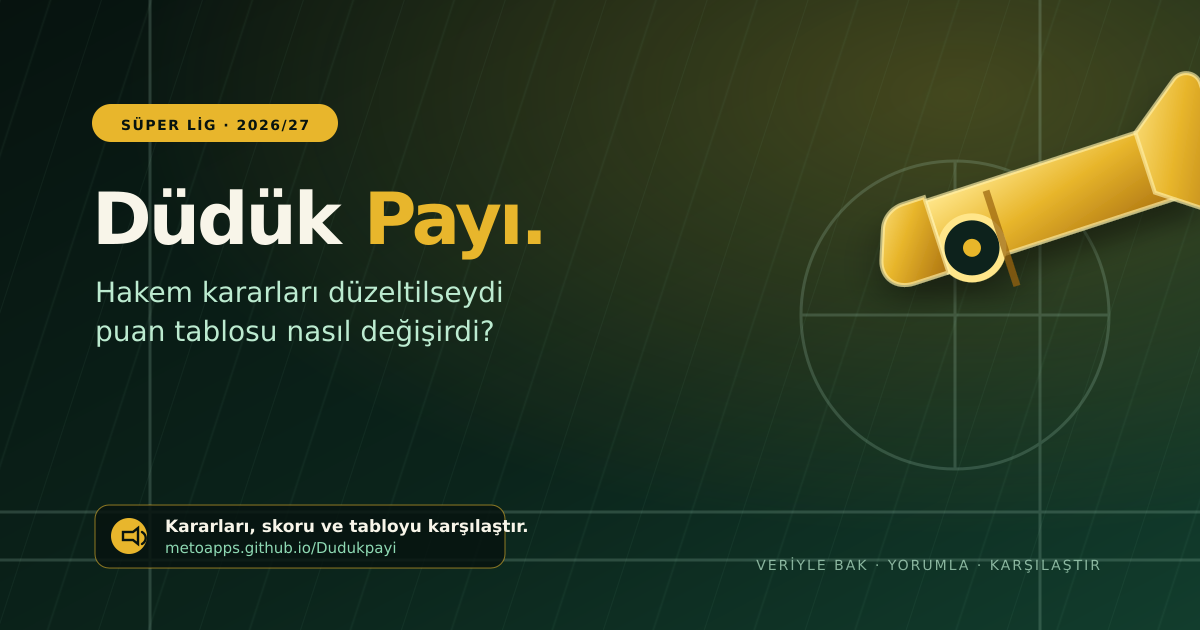
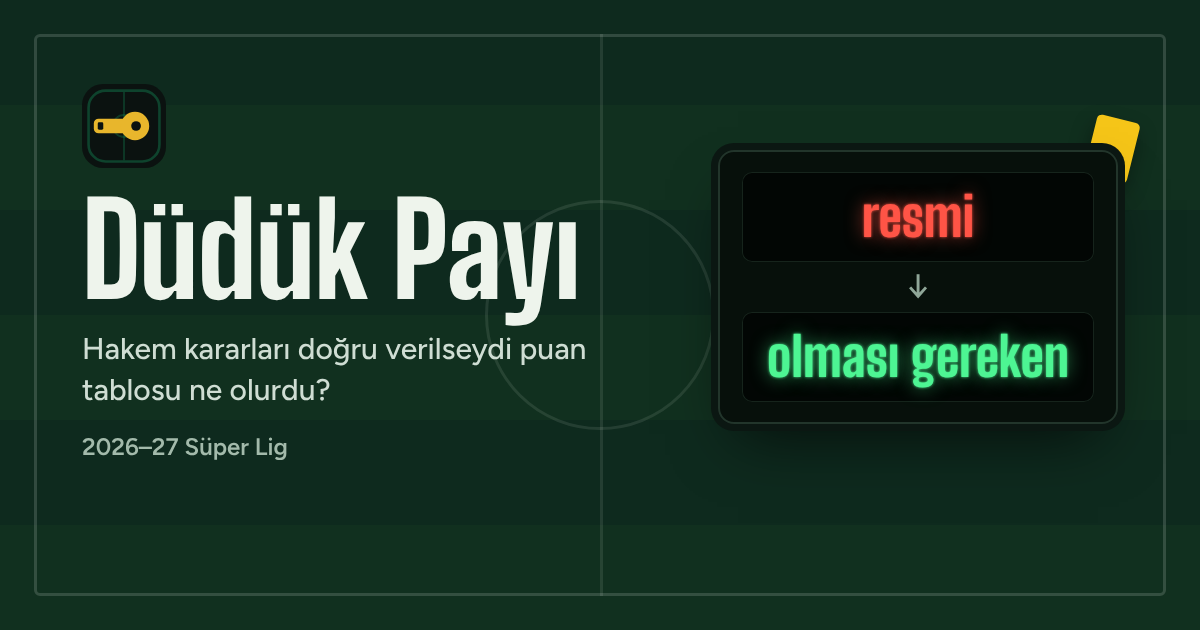
Skor tahmini, halter grafiği, yeni önizleme kartı (#11)
- Olay öncesi skor boşsa: gol dakikaları binom ile dağıtılıp olası her skor ağırlıklı
  hesaplanır (skor ve kırmızı kararları). 66 gerçek kararla sınandı: tablo hatası
  1,86 → 0,94 puan (toplam mutlak); skoru girilmiş kararlar değişmedi.
- Tablo kartına "Grafik": resmi → olması gereken halter grafiği, ölçek 0'dan,
  en çok zarar gören / kayırılan için iğnelenmiş not (cinecode dataviz kuralları).
- og-kart.png gece sahası tasarımıyla yenilendi (?v=2 ile önbellek kırıldı).

Claude-Session: https://claude.ai/code/session_01Nr7ihjepNh5WuBFqUhqvby

diff --git a/index.html b/index.html
@@ -8,14 +8,14 @@
 <meta property="og:title" content="Düdük Payı">
 <meta property="og:description" content="Hakem kararları düzeltilseydi Süper Lig puan tablosu ne olurdu?">
 <meta property="og:type" content="website">
-<meta property="og:image" content="https://metoapps.github.io/Dudukpayi/og-kart.png">
+<meta property="og:image" content="https://metoapps.github.io/Dudukpayi/og-kart.png?v=2">
 <meta property="og:image:width" content="1200">
 <meta property="og:image:height" content="630">
 <meta property="og:image:alt" content="Düdük Payı — hakem kararlarının puan tablosuna etkisi">
 <meta name="twitter:card" content="summary_large_image">
 <meta name="twitter:title" content="Düdük Payı — Hakem kararları düzeltilseydi">
 <meta name="twitter:description" content="Hakem kararlarının maç skoruna ve Süper Lig puan tablosuna etkisini incele.">
-<meta name="twitter:image" content="https://metoapps.github.io/Dudukpayi/og-kart.png">
+<meta name="twitter:image" content="https://metoapps.github.io/Dudukpayi/og-kart.png?v=2">
 <meta name="apple-mobile-web-app-capable" content="yes">
 <meta name="apple-mobile-web-app-title" content="Düdük Payı">
 <title>Düdük Payı</title>
@@ -737,6 +737,22 @@ h1{
 .karne-sayi small{display:block;font-size:11px;color:var(--muted);line-height:1.2;margin-top:2px;max-width:76px;margin-left:auto;}
 .karne-ic{padding:0 4px 12px 34px;}
 .thead.karne-t,.trow.karne-t{grid-template-columns:minmax(0,1fr) 50px 58px 50px;gap:6px;}
+.halter-kutu{margin-top:4px;}
+.halter{width:100%;height:auto;display:block;font-family:var(--font-body);}
+.h-izgara{stroke:var(--edge2);stroke-width:1;}
+.h-eksen{font-size:9.5px;fill:var(--dim);font-family:var(--font-num);font-weight:600;}
+.h-ad{font-size:11.5px;fill:var(--ink);font-weight:600;}
+.h-cizgi{stroke-width:2.5;stroke-linecap:round;}
+.h-cizgi.up{stroke:var(--green);} .h-cizgi.down{stroke:var(--red);} .h-cizgi.notr{stroke:var(--dim);}
+.h-resmi{fill:var(--ground);stroke:var(--muted);stroke-width:1.6;}
+.h-olmali.up{fill:var(--green);} .h-olmali.down{fill:var(--red);} .h-olmali.notr{fill:var(--dim);}
+.h-fark{font-size:12px;font-family:var(--font-num);font-weight:700;}
+.h-fark.up{fill:var(--green);} .h-fark.down{fill:var(--red);} .h-fark.notr{fill:var(--dim);}
+.h-not{font-size:9.5px;fill:var(--muted);font-style:italic;}
+.halter-lejant{display:flex;gap:16px;font-size:12px;color:var(--muted);margin-top:6px;}
+.halter-lejant i{display:inline-block;width:10px;height:10px;border-radius:50%;margin-right:6px;vertical-align:-1px;}
+.lj-resmi{box-shadow:inset 0 0 0 1.6px var(--muted);}
+.lj-olmali{background:var(--ink);}
 /* Lig bölgesi etiketleri: kısaltma oldukları için büyük harf kalır */
 .rozet{border-radius:3px;}
 .card-head .kopya-link+.kopya-link{margin-left:14px;}
@@ -837,6 +853,7 @@ function seedKopya(){
   return a;
 }
 
+function binom(n,k,p){ return fact(n)/(fact(k)*fact(n-k))*Math.pow(p,k)*Math.pow(1-p,n-k); }
 function fact(n){var r=1;for(var i=2;i<=n;i++)r*=i;return r;}
 function pois(k,l){return Math.exp(-l)*Math.pow(l,k)/fact(k);}
 function realPts(hg,ag){return hg>ag?[3,0]:(hg<ag?[0,3]:[1,1]);}
@@ -1010,12 +1027,13 @@ function matchImpactHesap(m){
       return p;
     }
     /* Kırmızılar: kalan süre gol beklentisi kayması. */
-    var rh=0, ra=0, redF=0, redDurum=null;
+    var rh=0, ra=0, redF=0, redDurum=null, redIlkDk=Infinity;
     redDecs.forEach(function(d){
       var w=wOf(d); if(w<=0) return;
       var rf=remFrac(d); if(rf<=0) return;
       redF=Math.max(redF,rf);
       if(!redDurum && oncVar(d)) redDurum=olaySonrasi(d,m);
+      redIlkDk=Math.min(redIlkDk, +d.minute||45);
       var rem=rf*w;
       /* RED_BASE: 11 kişilik takımın 10 kişiye karşı gol artışı.
          RED_SUPP: 10 kişi kalan takımın kendi gol kaybı.
@@ -1048,6 +1066,11 @@ function matchImpactHesap(m){
         if(!durum && oncVar(d)){ durum=olaySonrasi(d,m); durumDk=+d.minute||45; }
       }
       var durumBilinen=!!durum;
+      var erkenDk=Infinity, cH=0, cA=0;
+      for(var z=0;z<secili.length;z++){
+        var dz=scoreDecs[secili[z]]; erkenDk=Math.min(erkenDk,+dz.minute||45);
+        if(dz.type==="pen_opp"||dz.type==="goal_opp"){ if(dz.harmed==="home") cA++; else cH++; }
+      }
       if(!durum) durum=[m.hg, m.ag];
       else {
         /* O andan sonra sayılan haksız goller gerçek akışta oldu; geri alınabilmeleri için duruma eklenir. */
@@ -1065,22 +1088,50 @@ function matchImpactHesap(m){
         var alfa=late/k, f=rem/k;
         var Rh=0, Ra=0;
         if(alfa<1){
-          var lam=kalanLambda(durum, m, f, durumBilinen);
-          var lh=Math.max(0.001,lam[0]), la=Math.max(0.001,lam[1]);
-          var ile=beklenenPuan(durum[0]+sh, durum[1]+sa, lh, la);
-          var siz=beklenenPuan(durum[0], durum[1], lh, la);
-          Rh=ile[0]-siz[0]; Ra=ile[1]-siz[1];
+          if(durumBilinen){
+            var lam=kalanLambda(durum, m, f, true);
+            var lh=Math.max(0.001,lam[0]), la=Math.max(0.001,lam[1]);
+            var ile=beklenenPuan(durum[0]+sh, durum[1]+sa, lh, la);
+            var siz=beklenenPuan(durum[0], durum[1], lh, la);
+            Rh=ile[0]-siz[0]; Ra=ile[1]-siz[1];
+          } else {
+            /* Olay anı skoru bilinmiyor: maçın her golü olaydan önce q=dakika/96 ihtimalle
+               atılmış sayılır (binom). Sayılan haksız goller olay anındadır, duruma dahildir.
+               Her olası skor için oyun durumu hesabı yapılıp ihtimalle ağırlıklandırılır. */
+            var q=Math.max(0,Math.min(1,erkenDk/(MAC_DK+UZATMA_TABAN)));
+            var nH=Math.max(0,m.hg-cH), nA=Math.max(0,m.ag-cA);
+            for(var bi=0;bi<=nH;bi++) for(var bj=0;bj<=nA;bj++){
+              var pw=binom(nH,bi,q)*binom(nA,bj,q); if(pw<1e-9) continue;
+              var st=[bi+cH, bj+cA];
+              var lm=kalanLambda(st, m, f, true);
+              var lh2=Math.max(0.001,lm[0]), la2=Math.max(0.001,lm[1]);
+              var i2=beklenenPuan(st[0]+sh, st[1]+sa, lh2, la2);
+              var s2=beklenenPuan(st[0], st[1], lh2, la2);
+              Rh+=pw*(i2[0]-s2[0]); Ra+=pw*(i2[1]-s2[1]);
+            }
+          }
         }
         H+=alfa*Dh+(1-alfa)*Rh;
         A+=alfa*Da+(1-alfa)*Ra;
       }
       if(redF>0 && (Math.abs(rh)>0.001||Math.abs(ra)>0.001)){
-        var st=redDurum||[m.hg,m.ag];
-        var rl=kalanLambda(st, m, redF, !!redDurum);
-        var bh=Math.max(0.001,rl[0]), ba=Math.max(0.001,rl[1]);
-        var x1=beklenenPuan(st[0]+sh, st[1]+sa, Math.max(0.001,bh+rh), Math.max(0.001,ba+ra));
-        var x0=beklenenPuan(st[0]+sh, st[1]+sa, bh, ba);
-        H+=x1[0]-x0[0]; A+=x1[1]-x0[1];
+        var redDurumlar=[];
+        if(redDurum) redDurumlar.push([redDurum,1]);
+        else {
+          /* Kırmızının anındaki skor bilinmiyor: goller dakika/96 ihtimalle önce atılmış sayılır. */
+          var rq=Math.max(0,Math.min(1,redIlkDk/(MAC_DK+UZATMA_TABAN)));
+          for(var ri=0;ri<=m.hg;ri++) for(var rj=0;rj<=m.ag;rj++){
+            var rw=binom(m.hg,ri,rq)*binom(m.ag,rj,rq); if(rw>=1e-9) redDurumlar.push([[ri,rj],rw]);
+          }
+        }
+        redDurumlar.forEach(function(x){
+          var st=x[0], wgt=x[1];
+          var rl=kalanLambda(st, m, redF, true);
+          var bh=Math.max(0.001,rl[0]), ba=Math.max(0.001,rl[1]);
+          var x1=beklenenPuan(st[0]+sh, st[1]+sa, Math.max(0.001,bh+rh), Math.max(0.001,ba+ra));
+          var x0=beklenenPuan(st[0]+sh, st[1]+sa, bh, ba);
+          H+=wgt*(x1[0]-x0[0]); A+=wgt*(x1[1]-x0[1]);
+        });
       }
       var nrm=normPts(H, A);
       eh+=pr*nrm.home; ea+=pr*nrm.away;
@@ -1940,13 +1991,15 @@ function vTable(){
     adj:'Düzeltilmiş sıralama',
     tff:'TFF sırası',
     hata:'Hata sayısı',
-    big4:'Dört büyük'
+    big4:'Dört büyük',
+    grafik:'Resmi puandan olması gerekene'
   };
   var notlar={
     adj:'',
     tff:'Düdük payı yok. Resmi puan, ikili seri, averaj, atılan gol.',
     hata:'Kaç karar lehte / aleyhte işlendi. Puan değil, defter sayımı.',
-    big4:'Yalnız dört büyüklerin düdük payı.'
+    big4:'Yalnız dört büyüklerin düdük payı.',
+    grafik:'Her çizgi bir takım: boş halka resmi puan, dolu nokta olması gereken. Yeşil çizgi hakem yüzünden kaybedilen, kırmızı çizgi hakem sayesinde fazladan alınan puan. Ölçek sıfırdan başlar; farklar büyütülmez.'
   };
   var h='<div class="card"><div class="card-head"><span class="lbl">'+(baslik[gor]||baslik.adj)+'</span>';
   if(gor==='adj') h+='<span><button class="kopya-link" onclick="ozetKopyala()">Özeti kopyala</button><button class="kopya-link" onclick="paylasGorsel()">Paylaş</button></span>';
@@ -1960,6 +2013,7 @@ function vTable(){
   } else h+='<p class="note" style="margin-top:0">'+(notlar[gor]||'')+'</p>';
   h+='<div class="tablo-arac">';
   h+='<button class="chip'+(gor==='adj'?' on':'')+'" onclick="tabloGor(\'adj\')">Düzeltilmiş</button>';
+  h+='<button class="chip'+(gor==='grafik'?' on':'')+'" onclick="tabloGor(\'grafik\')">Grafik</button>';
   h+='<button class="chip'+(gor==='tff'?' on':'')+'" onclick="tabloGor(\'tff\')">TFF sırası</button>';
   h+='<button class="chip'+(gor==='hata'?' on':'')+'" onclick="tabloGor(\'hata\')">Hata sayısı</button>';
   h+='<button class="chip'+(gor==='big4'?' on':'')+'" onclick="tabloGor(\'big4\')">Dört büyük</button>';
@@ -1988,6 +2042,9 @@ function vTable(){
       if(acik) h+=takimDetay(r.name);
     });
     h+='</div></div>';
+  } else if(gor==='grafik'){
+    h+=halterGrafik(T.adj);
+    h+='</div>';
   } else if(gor==='tff'){
     var gcols='24px minmax(9rem,1fr) 30px 44px 40px 40px';
     h+='<div class="thead" style="grid-template-columns:'+gcols+'"><div class="pos">#</div><div>Takım</div><div class="pts">O</div><div class="pts">A:Y</div><div class="pts">Av</div><div class="pts">P</div></div>';
@@ -2475,7 +2532,7 @@ function vKurallar(){
    +'<p class="note" style="margin-top:0"><b>Her karar kendi dakikasıyla bölünür.</b> '
    +'Karar için <b>geçlik = dakika / 90</b>. 90′ sonrası olay skor düzeltmesidir; uzatmada kalan süre dakikadan dakikaya küçülür. Karar kesinlik p ile gerçekleşir. Gerçekleşirse iki tahmin harmanlanır: <b>geçlik</b> kadarı golü doğrudan maç sonu skoruna yazar, <b>1 − geçlik</b> kadarı golü olay anındaki skora yazıp kalan süreyi iki skordan da aynı taban gol beklentisiyle oynatır ve farkı alır. '
    +'Gol kesin bir olaydır; gol beklentisine çevrilmez, tam gol olarak girer. 90′ sonrası kırmızı da kalan uzatmayla ölçülür.</p>'
-   +'<p class="note"><b>Olay anındaki skor önemlidir.</b> Karara “olaydan önceki skor” girilirse kalan süre o skordan oynatılır: 0-0’da verilmeyen penaltı, 0-2’de verilmeyenden daha değerlidir; önde on kişi kalmak, geride kalmaktan daha az zarar verir. Girilmezse maç sonu skoru kullanılır. Skor girildiğinde kalan sürenin gol beklentisi, o maçta olaydan sonra gerçekten atılan gollerle lig tabanının yarı yarıya karışımıdır; 0-4 biten maçta erken hata, rakibin sonraki üstünlüğü yok sayılarak şişirilmez.</p>'
+   +'<p class="note"><b>Olay anındaki skor önemlidir.</b> Karara “olaydan önceki skor” girilirse kalan süre o skordan oynatılır: 0-0’da verilmeyen penaltı, 0-2’de verilmeyenden daha değerlidir; önde on kişi kalmak, geride kalmaktan daha az zarar verir. Girilmezse o dakikadaki skor tahmin edilir: maçın her golü, olayın dakikasına göre öncesinde ya da sonrasında atılmış olabilir; olası her skor ihtimaliyle hesaba katılır. 66 gerçek kararla sınandığında bu tahmin, tabloyu takım başına ortalama 0,05 puan sapmayla doğru buluyor. Skor girildiğinde kalan sürenin gol beklentisi, o maçta olaydan sonra gerçekten atılan gollerle lig tabanının yarı yarıya karışımıdır; 0-4 biten maçta erken hata, rakibin sonraki üstünlüğü yok sayılarak şişirilmez.</p>'
    +'<p class="note"><b>Karşılıklı hatalar birbirini götürür.</b> İki takımın da golü haksız iptal edildiyse averaj değişmez, etki sıfırdır.</p>'
    +'<p class="note"><b>Sonucu bilinen olaylar tam gol sayılır.</b> Golle biten yanlış penaltı ya da sayılan ofsaytlı gol geri alınırken 1 tam gol düşülür.</p>'
    +'<p class="note"><b>Kaçan yanlış penaltı kayda geçmez.</b> “Rakibe yanlış verilen penaltı (gol oldu)” yalnız top filelere gittiyse seçilir. Kurtarıldıysa ya da dışarı gittiyse skor zaten değişmemiştir; bu türe yazılmaz.</p>'
@@ -2974,6 +3031,34 @@ function pano(T, hafta, incelenen, karar, pay){
     +' Hakem hataları takımlara toplam <b>'+tr1(pay)+' puan</b> kaybettirdi.</p>';
 }
 
+
+/* Halter grafiği: resmi → olması gereken. Ölçek 0'dan; renk yalnız yönü taşır. */
+function halterGrafik(rows){
+  var W=340, SOL=104, SAG=40, SATIR=30, UST=26;
+  var enCok=0; rows.forEach(function(r){ enCok=Math.max(enCok, r.pts, r.pts+r.mid); });
+  var tavan=Math.ceil((enCok+1)/5)*5, gen=W-SOL-SAG;
+  function x(v){ return SOL+Math.max(0,v)/tavan*gen; }
+  var H=UST+rows.length*SATIR+8;
+  var zarar=rows.slice().sort(function(a,b){return b.mid-a.mid;})[0], kayir=rows.slice().sort(function(a,b){return a.mid-b.mid;})[0];
+  var g='<svg class="halter" viewBox="0 0 '+W+' '+H+'" role="img" aria-label="Takımların resmi puanı ve olması gereken puanı">';
+  for(var t=0;t<=tavan;t+=5){
+    g+='<line x1="'+x(t)+'" x2="'+x(t)+'" y1="'+(UST-8)+'" y2="'+(H-6)+'" class="h-izgara"/>'
+     +'<text x="'+x(t)+'" y="'+(UST-12)+'" class="h-eksen" text-anchor="middle">'+t+'</text>';
+  }
+  rows.forEach(function(r,i){
+    var y=UST+i*SATIR+SATIR/2, a=x(r.pts), b=x(r.pts+r.mid);
+    var yon=r.mid>0.05?'up':(r.mid<-0.05?'down':'notr');
+    var not=(r===zarar&&r.mid>0.05)?'en çok zarar gören':((r===kayir&&r.mid<-0.05)?'en çok kayırılan':'');
+    g+='<text x="'+(SOL-10)+'" y="'+(y+4)+'" class="h-ad" text-anchor="end">'+esc(r.name)+'</text>'
+     +'<line x1="'+a+'" x2="'+b+'" y1="'+y+'" y2="'+y+'" class="h-cizgi '+yon+'"/>'
+     +'<circle cx="'+a+'" cy="'+y+'" r="4.2" class="h-resmi"/>'
+     +'<circle cx="'+b+'" cy="'+y+'" r="5" class="h-olmali '+yon+'"/>'
+     +'<text x="'+(W-2)+'" y="'+(y+4)+'" class="h-fark '+yon+'" text-anchor="end">'+tr1i(r.mid)+'</text>'
+     +(not?'<text x="'+(Math.min(a,b)-9)+'" y="'+(y+3.5)+'" class="h-not" text-anchor="end">'+not+'</text>':'');
+  });
+  g+='</svg>';
+  return '<div class="halter-kutu">'+g+'<div class="halter-lejant"><span><i class="lj-resmi"></i>resmi puan</span><span><i class="lj-olmali"></i>olması gereken</span></div></div>';
+}
 function izleLinkiKopyala(){ panoYaz(IZLE_LINKI,"Misafir linki panoya kopyalandı.","Kopyalanamadı: "+IZLE_LINKI); }
 
 /* Paylaş: puan durumu + tabelanın görseli (1080 px). Yazı tipleri yüklendikten sonra çizilir. */

diff --git a/tests/regression.test.js b/tests/regression.test.js
@@ -90,7 +90,9 @@ assert(yakin(imp(2,1,[]).mid.home,0));
 // Oyun durumu: 0-3 biten maçta 0-0 iken verilmeyen penaltı, skor bilinmeyenden daha değerli
 const bilinmez=imp(0,3,[{type:"pen_not",harmed:"home",minute:30,certainty:100}]).mid.home;
 const sifirsifir=imp(0,3,[{type:"pen_not",harmed:"home",minute:30,certainty:100,oncH:0,oncA:0}]).mid.home;
-assert(sifirsifir>bilinmez+0.1, "oyun durumu");
+const ikisifir=imp(0,3,[{type:"pen_not",harmed:"home",minute:30,certainty:100,oncH:0,oncA:2}]).mid.home;
+assert(sifirsifir>ikisifir+0.1, "oyun durumu: 0-0'da verilmeyen penaltı 0-2'dekinden değerli");
+assert(bilinmez>0 && bilinmez<sifirsifir, "skor bilinmezse olası skorların ortalaması");
 // Önde on kişi kalmak gerideyken kalmaktan az zarar
 const onde=imp(1,1,[{type:"red_self",harmed:"home",minute:30,certainty:100,oncH:1,oncA:0}]).mid.home;
 const geride=imp(1,1,[{type:"red_self",harmed:"home",minute:30,certainty:100,oncH:0,oncA:1}]).mid.home;
